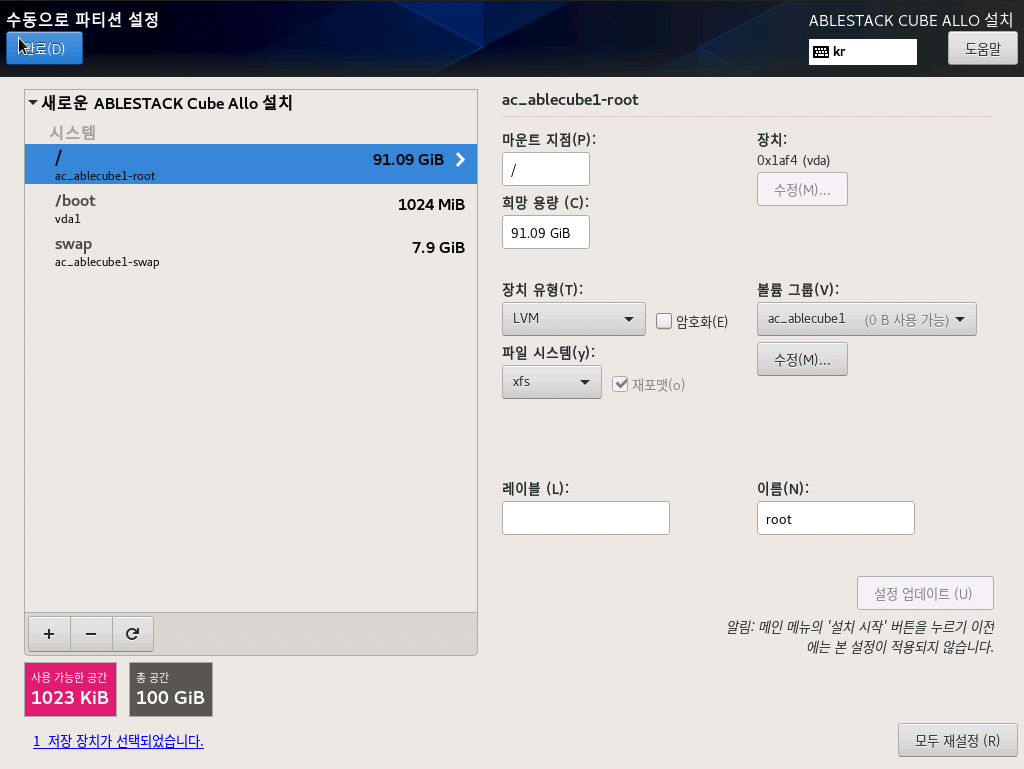
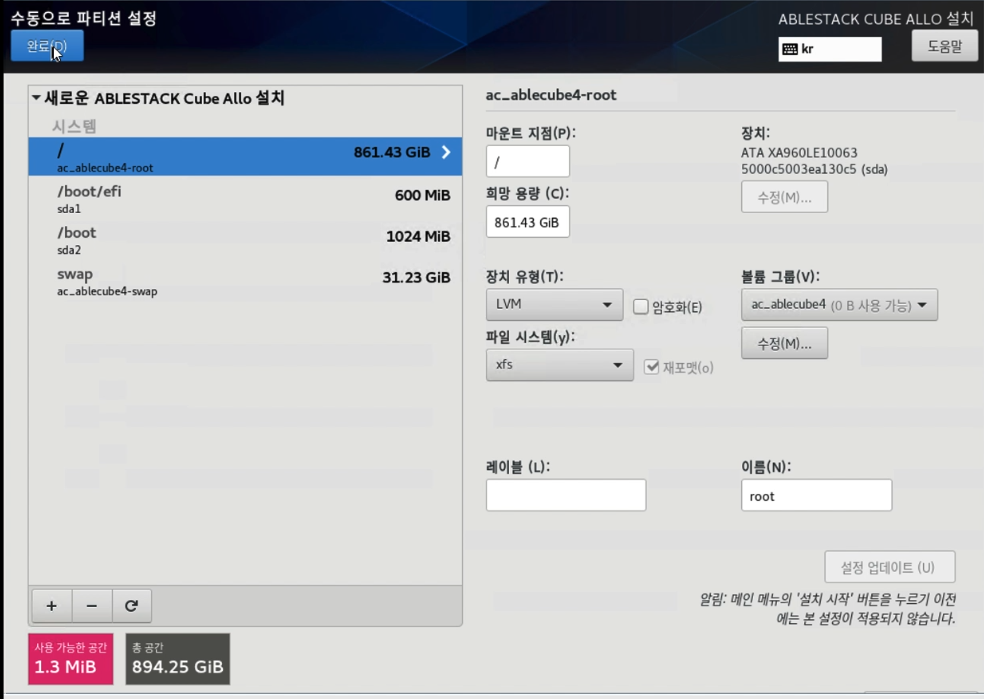
시작하기 가이드 Cube 설치 수정

diff --git a/docs/getting-started/install-guide-cube.md b/docs/getting-started/install-guide-cube.md
@@ -45,43 +45,77 @@ ABLESTACK Cube를 설치 진행 가이드 입니다.
         이유는 설치 대상의 파티션 구성시 호스트의 이름이 설정 정보에 입력이 되기 때문입니다.
    
 4. 네트워크 및 호스트 이름 구성변경 화면
+    - ABLESTACK Cube 구성화면에서 **네트워크 및 호스트 이름** 을 클릭하면 해당 화면으로 이동됩니다. 
+ 
     ![네트워크 및 호스트 이름](../assets/images/install-guide-cube-04.png){ align=center }
-    - ABLESTACK Cube 구성화면에서 **네트워크 및 호스트 이름** 을 클릭하면 해당 화면으로 이동됩니다.  
+    
    
-    !!! info    
+    !!! note 
+        네트워크의 목록 및 장치명 등은 물리적 네트워크의 구성과 하드웨어 벤더사에 따라 다르게 표기될 수 있습니다.
+   
         아래 설정은 순서는 상관없이 진행이 가능합니다.
     1. 호스트 이름 설정  
         ![호스트 이름 설정](../assets/images/install-guide-cube-05.png){ align=center }
-        * Host name에 **ablecube1** 을 입력합니다.
+        * Host name에 hostname을 입력합니다.
+        !!! Tip
+            일반적으로 호스트명은 "ablecube1"과 같이 ablecube + 호스트넘버링 형태로 지정하면 향 후 관리가 용이합니다. 
         * 적용 버튼을 클릭하여 Host name을 적용합니다.
         * 적용된 Host name이 정상적으로 현재 호스트 이름에 표시 되는지 확인합니다.
-    2. NIC enable  
-        ![NIC enable](../assets/images/install-guide-cube-06.png){ align=center }
-        * 이더넷 (ens3) **켬** 으로 변경 후 **설정** 버튼을 클릭하여 IP 설정 화면으로 들어갑니다.
-    3. IP 셋팅 
+    2. NIC 자동활성화 설정 및 IP 셋팅 
+        * 네트워크 목록에서 관리 네트워크를 선택합니다
+        !!! note
+            해당 네트워크는 관리네트워크로 사용할 네트워크 입니다. 
+            연결(케이블링)된 네트워크 인터페이스 중 관리네트워크로 구성된 네트워크를 선택합니다.
+        
+        ![NIC 자동화 설정](../assets/images/install-guide-cube-07-01.png){ align=center }
+
+        * **Connect automatically with priority** 항목을 체크합니다.
+        * 우측 하단의 설정버튼을 클릭하여 편집 화면을 띄운 후 **일반** 설정탭으로 이동합니다.
+        
         ![IP 셋팅](../assets/images/install-guide-cube-07.png){ align=center }
-        * **ens3** 편집 화면에서 **IPv4** 설정탭으로 이동합니다.
+
+        * **IPv4** 설정탭으로 이동합니다.
         * **Method** 선택박스에서 **수동** 으로 변경합니다.
-        * **Add** 버튼 클릭하여 주소에 **192.168.0.200** , 넷마스크에 **24** , 게이트웨이에 **192.168.0.1** 입력하고 DNS server에는 **8.8.8.8** 을 입력 후 **저장(S)**버튼을 클립합니다.  
+        * **Add** 버튼 클릭하여 IP주소, 넷마스크, 게이트웨이, DNS Server를 입력하고 버튼을 클립합니다.
         * 저장 후 **완료** 버튼을 클릭하여 네트워크 및 호스트 이름 구성을 완료 합니다.
-    !!! note
-          위 이미지 및 IP 정보는 예제 입니다.  
-          해당 IP 셋팅은 ABLESTACK을 구성하는 사이트 환경에 맞춰서 IP를 변경해야 하며 사이트에서 사용하는 DNS server가 별도로 있을경우 해당 DNS server로 변경가능합니다.
+        !!! note
+            위 이미지 및 IP 정보는 예제 입니다.  
+            해당 IP 셋팅은 ABLESTACK을 구성하는 사이트 환경에 맞춰서 IP를 변경해야 하며 사이트에서 사용하는 DNS server가 별도로 있을경우 해당 DNS server로 변경가능합니다.
+
+    3. NIC enable 
+        ![NIC enable](../assets/images/install-guide-cube-06.png){ align=center }
+        * 우측상단 활성화버튼을 **켬** 으로 변경합니다.
+    
           
 5. 설치 대상 구성 화면
-    ![설치 대상](../assets/images/install-guide-cube-08.png){ align=center }
     - ABLESTACK Cube 구성화면에서 **설치 대상** 을 클릭하면 해당 화면으로 이동됩니다.  
+
+    ![설치 대상](../assets/images/install-guide-cube-08.png){ align=center }
+    
+    !!! note
+        디스크 장치 목록은 디스크 구성 및 종류,수량에 따라 다르게 표시될 수 있습니다. 
+    * 디스크 목록 중 ABLSTACK Cube OS 가 설치될 디스크를 선택하시고 나머지 디스크는 모두 선택을 해제합니다.
+  
+    !!! check
+        설치 대상 디스크 이외의 모든 디스크는 반드시 선택 해제를 해야합니다.
+        스토리지 구성단계에서 해당 디스크를 사용할 수 없게 될 수도 있습니다.
+  
+    * 저장소 구성항목을 **Custom** 을 선택한 후 완료를 클릭합니다. 
     
     <br/>
 
+    * **여기를 클릭하여 자동으로 생성합니다. (C)** 을 클릭하면 해당화면으로 이동됩니다
+
+    ![설치 대상](../assets/images/install-guide-cube-08-01.png){ align=center }
+    
+
     1. 파티션 구성 화면 1-2
         ![파티션 구성 1-2](../assets/images/install-guide-cube-09.png){ align=center }
-        * **설치 대상** 화면에 **여기를 클릭하여 자동으로 생성합니다. (C)** 을 클릭하면 해당화면으로 이동됩니다.
         * 해당 화면은 파티션을 구성하는 화면입니다.  
+        * **/home** 파티션 선택 후 아래 **-** 버튼을 클릭하여 home 파티션을 삭제합니다.
     2. 파티션 구성 화면 2-2
         ![파티션 구성 2-2](../assets/images/install-guide-cube-10.png){ align=center }
-        * **/home** 파티션 선택 후 아래 **-** 버튼을 클릭하여 home 파티션을 삭제합니다.
-        * **/(root파티션)** 파티션 선택 후 **희망 용량 (C):** 의 입력 값에 1023 KiB를 입력 후 **설정 업데이트 (U)** 버튼을 클릭하여 파티션 용량 재설정 합니다.
+        * **/(root파티션)** 파티션 선택 후 **희망 용량 (C):** 의 입력 값에 1000 GiB(총용량 보다 많은 사이즈)를 입력 후 **설정 업데이트 (U)** 버튼을 클릭하여 파티션 용량 재설정 합니다.
         * 파티션 구성 완료 후 **완료(D)** 버튼을 클릭하여 파티션 설정을 마무리 합니다.
     
     !!! Tip
@@ -103,13 +137,19 @@ ABLESTACK Cube를 설치 진행 가이드 입니다.
 7. ABLESTACK Cube 구성 마무리
     ![ABLESTACK Cube 구성 마무리](../assets/images/install-guide-cube-13.png){ align=center }
     - ABLESTACK Cube 설정 완료 후 **설치 시작(B)** 버튼을 클릭하여 ABLESTACK 설치를 진행 합니다.
+    
+    ![ABLESTACK Cube 구성 마무리](../assets/images/install-guide-cube-13-1.png){ align=center }
+    
+    - 설치시간은 설치 환경에 따라 다소 상이할 수 있습니다.
     - 설치가 완료가 되면 자동으로 재부팅 절차가 진행되며 연결되여 있는 ABLESTACK ISO 또는 USB를 제거 한 후에 ABLESTACK Cube설치를 마무리 합니다.
   
 ## ABLESTACK Cube Network 셋팅
 
 1. ABLESTACK Cube 로그인
     ![ABLESTACK Cube 로그인](../assets/images/install-guide-cube-14.png){ align=center }
-    - ABLESTACK Cube 로그인 화면입니다. 사용자 이름은 **root** 를 암호는 ABLESTACK Cube 설치시 입력한 암호를 입력하고 **로그인** 버튼을 클릭하면 로그인 하실수 있습니다.
+    - ABLESTACK Cube 로그인 화면입니다. 
+    - 접속 URL은 **호스트IP:9090** 입니다
+    - 사용자 이름은 **root** 를 암호는 ABLESTACK Cube 설치시 입력한 암호를 입력하고 **로그인** 버튼을 클릭하면 로그인 하실수 있습니다.
     
 2. ABLESTACK Cube 메인 화면
     ![ABLESTACK Cube 메인 화면](../assets/images/install-guide-cube-15.png){ align=center }
